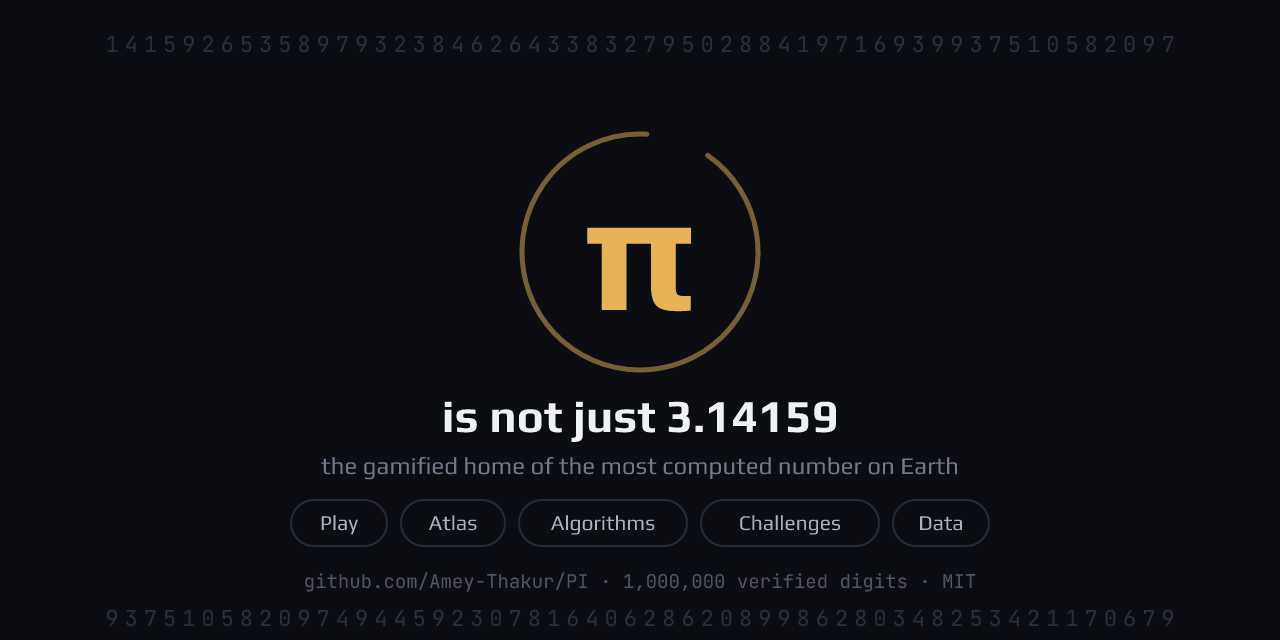
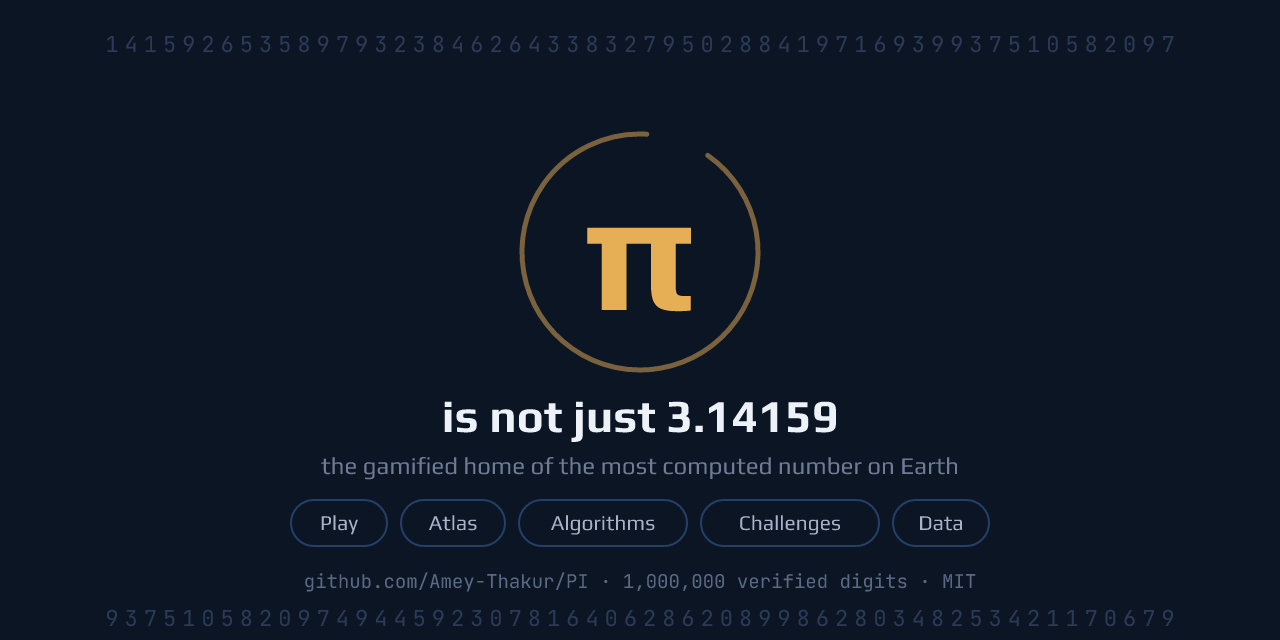
π

diff --git a/docs/style.css b/docs/style.css
@@ -1,11 +1,13 @@
 /*
  * Name: style.css
  * Purpose: The complete design system for the PI site.
- * Description: One stylesheet for the whole experience. Dark is the default
- *   because the site opens on a stream of glowing digits; light mode is a
- *   warm paper theme. Every color lives in a variable so the canvas labs can
- *   read them at runtime and stay in tune with the active theme. System
- *   fonts only: the site must work with the network cable unplugged.
+ * Description: One stylesheet for the whole experience. The palette is
+ *   derived from pi itself: in hexadecimal pi is 3.243F6A88..., and reading
+ *   those fractional digits as a color gives #243F6A, the deep blue this
+ *   dark theme is built on (borders wear it exactly). The gold accent is
+ *   that blue's complement, and light mode is pastry cream for the Pi Day
+ *   pie. Every color lives in a variable so the canvas labs can read them
+ *   at runtime. System fonts only: the site works with the cable unplugged.
  * Tech Stack: Plain CSS, no build step
  * License: MIT
  * Author: Amey Thakur (https://github.com/Amey-Thakur)
@@ -13,18 +15,21 @@
  */
 
 :root {
-  --bg: #0b0d12;
-  --surface: #12151d;
-  --surface-2: #181c26;
-  --border: #262b38;
-  --text-1: #eef1f6;
-  --text-2: #aab2c0;
-  --text-3: #717a8a;
-  --accent: #e6b357;
-  --accent-soft: rgba(230, 179, 87, 0.14);
+  /* Pi in hexadecimal is 3.243F6A88...; #243F6A is therefore the color of
+     pi, and every shade below is that blue scaled darker. The accent is
+     its complement: pi's own opposite, which lands on pie-crust gold. */
+  --bg: #0c1523;
+  --surface: #132137;
+  --surface-2: #182b48;
+  --border: #243f6a;
+  --text-1: #edf1f8;
+  --text-2: #a8b3c8;
+  --text-3: #6e7c96;
+  --accent: #e6af56;
+  --accent-soft: rgba(230, 175, 86, 0.14);
   --good: #6fbf8f;
   --bad: #d97b6c;
-  --ink: #0b0d12;
+  --ink: #0c1523;
   --radius: 14px;
   --radius-pill: 999px;
   --mono: ui-monospace, "Cascadia Code", Consolas, "SF Mono", Menlo, monospace;

diff --git a/docs/index.html b/docs/index.html
@@ -26,7 +26,7 @@
 <meta name="twitter:card" content="summary_large_image">
 <meta name="twitter:image" content="https://amey-thakur.github.io/PI/social-preview.png">
 <meta property="og:site_name" content="PI">
-<meta name="theme-color" content="#0b0d12" media="(prefers-color-scheme: dark)">
+<meta name="theme-color" content="#0c1523" media="(prefers-color-scheme: dark)">
 <meta name="theme-color" content="#faf6ef" media="(prefers-color-scheme: light)">
 <link rel="canonical" href="https://amey-thakur.github.io/PI/">
 <link rel="icon" type="image/svg+xml" href="favicon.svg">

diff --git a/docs/js/piday.js b/docs/js/piday.js
@@ -41,7 +41,7 @@
   if (days === 0) {
     el.innerHTML = "Happy <b>" + soonest.name + "</b>. You picked the right day to be here.";
   } else {
-    el.innerHTML = soonest.name + " is <b>" + days + "</b> " +
-      (days === 1 ? "day" : "days") + " away.";
+    el.innerHTML = "Next pi holiday: " + soonest.name + ", <b>" + days + "</b> " +
+      (days === 1 ? "day" : "days") + " from today.";
   }
 })();

diff --git a/docs/js/spiral.js b/docs/js/spiral.js
@@ -22,7 +22,7 @@
 
   /* Fixed by design so a digit keeps its color when the theme flips. */
   var PALETTE = [
-    "#e6b357", "#d97b6c", "#6fbf8f", "#5aa7d1", "#a58ad6",
+    "#e6af56", "#d97b6c", "#6fbf8f", "#5aa7d1", "#a58ad6",
     "#d1a3c4", "#c9c46a", "#7fc7bd", "#c98a5a", "#8a93c9"
   ];
 

diff --git a/scripts/check_links.py b/scripts/check_links.py
@@ -1,0 +1,52 @@
+# Name: check_links.py
+# Purpose: Prove that no internal link in the repository points at nothing.
+# Description: Scans every markdown file for relative links and fails if a
+#   target file does not exist. External URLs are left alone: they belong to
+#   the web, not to this check. Runs in CI so a renamed file can never
+#   silently orphan the references to it.
+# Usage: py scripts/check_links.py
+# Tech Stack: Python 3, standard library only
+# License: MIT
+# Author: Amey Thakur (https://github.com/Amey-Thakur)
+# Date: 2026-07-18
+
+import re
+import sys
+from pathlib import Path
+
+LINK = re.compile(r"\[[^\]]*\]\(([^)\s]+)\)")
+
+# Directories that never contain authored markdown.
+SKIP_DIRS = {".git", "__pycache__", "node_modules", ".claude"}
+
+
+def targets(md_file):
+    """Yield each relative link target in a markdown file, fragment stripped."""
+    for raw in LINK.findall(md_file.read_text(encoding="utf-8")):
+        if raw.startswith(("http://", "https://", "mailto:", "#")):
+            continue
+        yield raw.split("#", 1)[0]
+
+
+def main():
+    root = Path(__file__).resolve().parent.parent
+    broken = []
+
+    for md in sorted(root.rglob("*.md")):
+        if SKIP_DIRS.intersection(p.name for p in md.parents):
+            continue
+        for target in targets(md):
+            if not (md.parent / target).exists():
+                broken.append(f"{md.relative_to(root)} -> {target}")
+
+    if broken:
+        print("broken links:")
+        for b in broken:
+            print(" ", b)
+        sys.exit(1)
+
+    print("all internal links resolve")
+
+
+if __name__ == "__main__":
+    main()

diff --git a/data/README.md b/data/README.md
@@ -1,0 +1,70 @@
+<!--
+  Name: README.md
+  Purpose: What the digit files are, how they were made, and why to trust them.
+  Description: Provenance for every dataset in this folder. The short version:
+    one computation generated everything, an unrelated algorithm on a
+    different arithmetic engine reproduced every digit, and CI repeats that
+    proof on every push that touches the data.
+  License: MIT
+  Author: Amey Thakur (https://github.com/Amey-Thakur)
+  Date: 2026-07-18
+-->
+
+# The Data
+
+Verified decimals of π at four depths, plus the statistics the site draws.
+Nothing here was copied from the internet; every file was computed, then
+proven, inside this repository.
+
+| File | Contents | Size |
+|---|---|---:|
+| [pi-1000.txt](pi-1000.txt) | 1,000 decimals | 1 KB |
+| [pi-10000.txt](pi-10000.txt) | 10,000 decimals | 10 KB |
+| [pi-100000.txt](pi-100000.txt) | 100,000 decimals | 99 KB |
+| [pi-1000000.txt](pi-1000000.txt) | 1,000,000 decimals | 987 KB |
+| [digit-frequency.json](digit-frequency.json) | Digit counts and chi-square at each depth | 2 KB |
+
+The site keeps its own copies of the two larger digit files and the
+statistics under `docs/data/`, alongside `docs/data/milestones.json`, the
+curated history timeline the site renders.
+
+## File format
+
+Line one is `3.` on its own. Every following line holds exactly 100 digits,
+so positions are computable by eye: line n (counting from the first digit
+line) covers decimal places (n-1)·100+1 through n·100. To reconstruct the
+plain digit string, drop the first line and every newline.
+
+## Provenance
+
+1. **Generated** by [generate_digits.py](../scripts/generate_digits.py):
+   the Chudnovsky series with binary splitting on plain integers, computing
+   1,000,010 decimals in under half a minute. The four files are prefixes of
+   that single result, so they can never disagree with each other.
+2. **Verified** by [verify_digits.py](../scripts/verify_digits.py): the
+   Gauss-Legendre iteration, an unrelated algorithm running on Python's
+   decimal engine instead of integers, recomputes the full million and
+   compares every digit. Publication required both computations to agree
+   exactly, the same standard world-record computations use.
+3. **Measured** by [digit_stats.py](../scripts/digit_stats.py): digit counts
+   and chi-square at each depth, written to
+   [digit-frequency.json](digit-frequency.json).
+
+CI repeats steps 2 and 3 on every push that touches data, scripts, or
+algorithms, so the files in this folder cannot drift from their proof.
+
+## Regenerate everything
+
+```
+py scripts/generate_digits.py
+py scripts/verify_digits.py
+py scripts/digit_stats.py
+```
+
+Same three commands on any platform (`python3` outside Windows). If the
+second command prints anything but success, do not use the files.
+
+The story of what these digits mean is in
+[The digits themselves](../atlas/05-digits.md).
+
+[Repository home](../README.md)

diff --git a/README.md b/README.md
@@ -126,6 +126,14 @@ style rules, and every claim and every digit must be verifiable.
 
 [MIT](LICENSE). Use anything here for anything, with attribution.
 
+## Colophon
+
+Even the colors are π. In hexadecimal, π is 3.243F6A88..., and reading those
+fractional digits as a color gives `#243F6A`, the deep blue the site's dark
+theme is built on. The gold accent is that blue's exact complement, and light
+mode is pastry cream, for the pie. Nothing here is decoration for its own
+sake; if a detail did not earn its place, it is not in this repository.
+
 <div align="center">
 
 Made with care by [Amey Thakur](https://github.com/Amey-Thakur).
